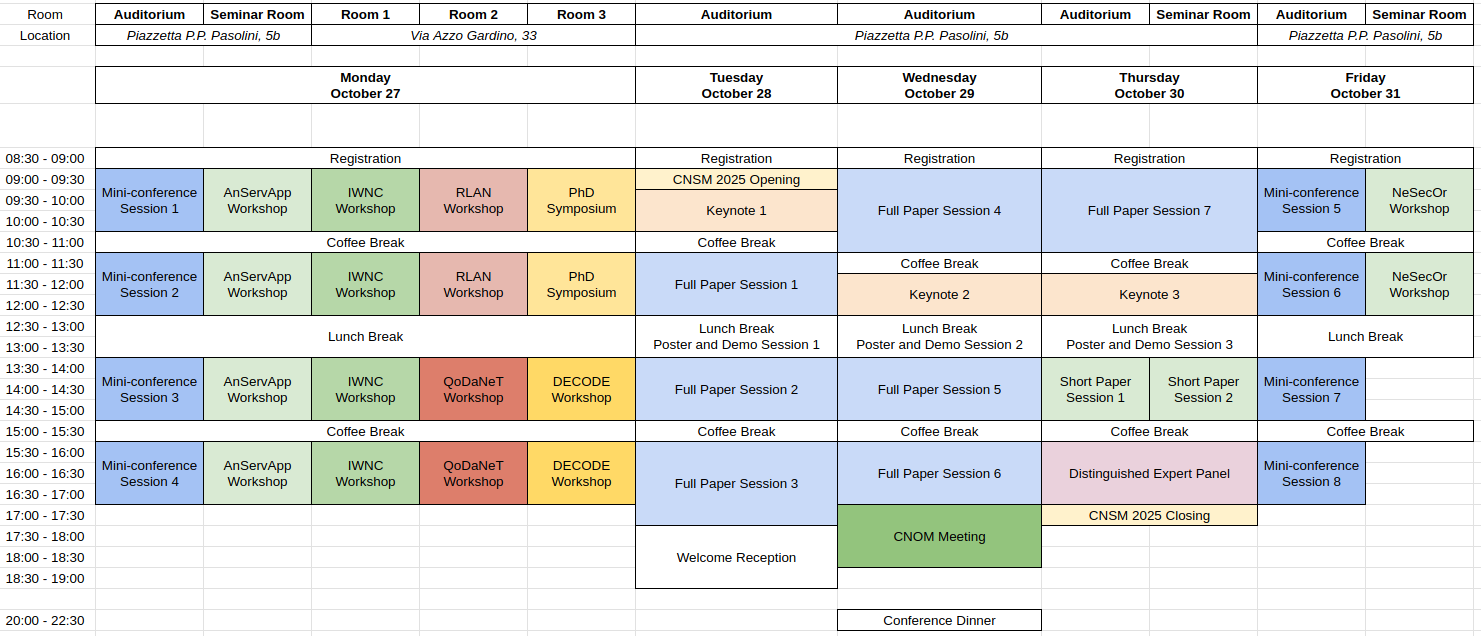
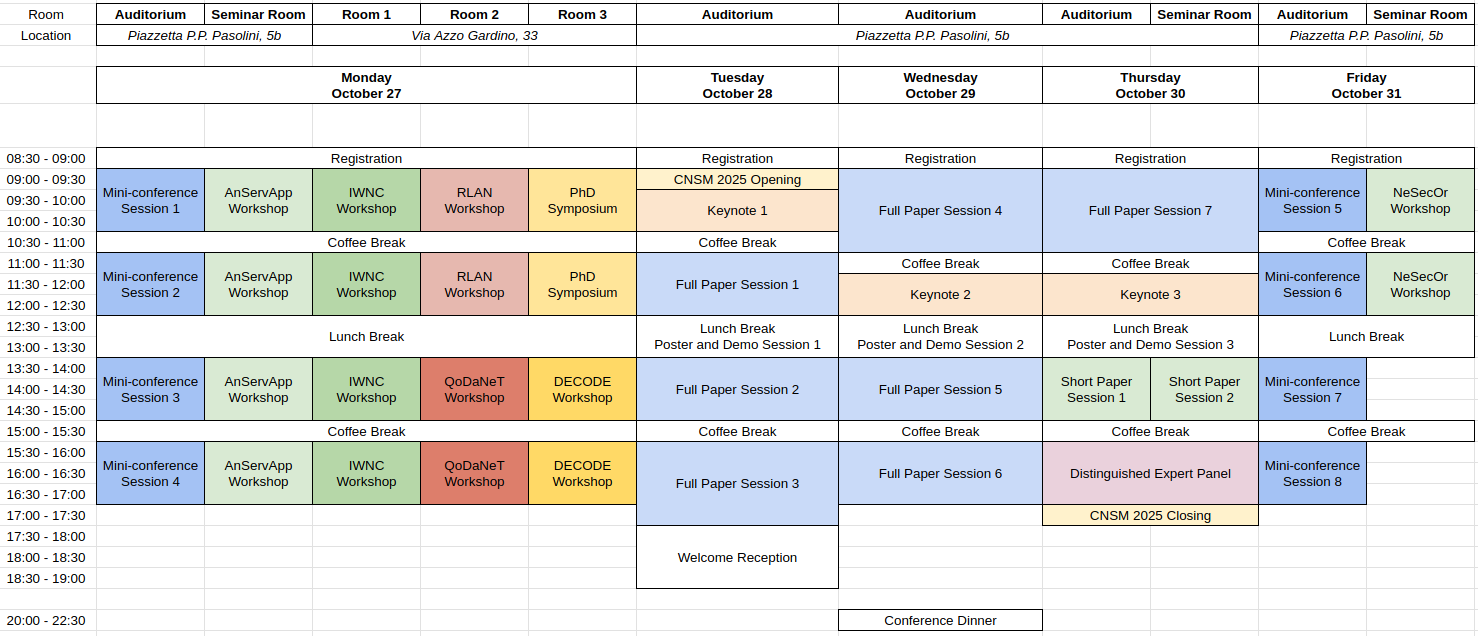
Social dinner info added

diff --git a/program.html b/program.html
@@ -24,6 +24,10 @@ title: Program
       </p>
       -->
 
+      <p style="margin-top: 3em">The <em>Welcome Reception</em> will take place on Tuesday, Oct. 28th from 5:30 pm to 7:00 pm at the main conference venue (<a target="_blank" href="https://maps.app.goo.gl/B67yby3i2mXXG6p59">DAMSLab</a>, Piazza P. P. Pasolini, 5b, Bologna)</p>
+      
+      <p>The <em>Conference Dinner</em> will take place on Wednesday, Oct. 29th starting at 8:00 pm at <a target="_blank" href="https://maps.app.goo.gl/nTKcZtbGmBN4oB1TA">La Capriata</a> restaurant (Corte Isolani, 1e, Bologna).</p> 
+
     </div>
   </div>
 
